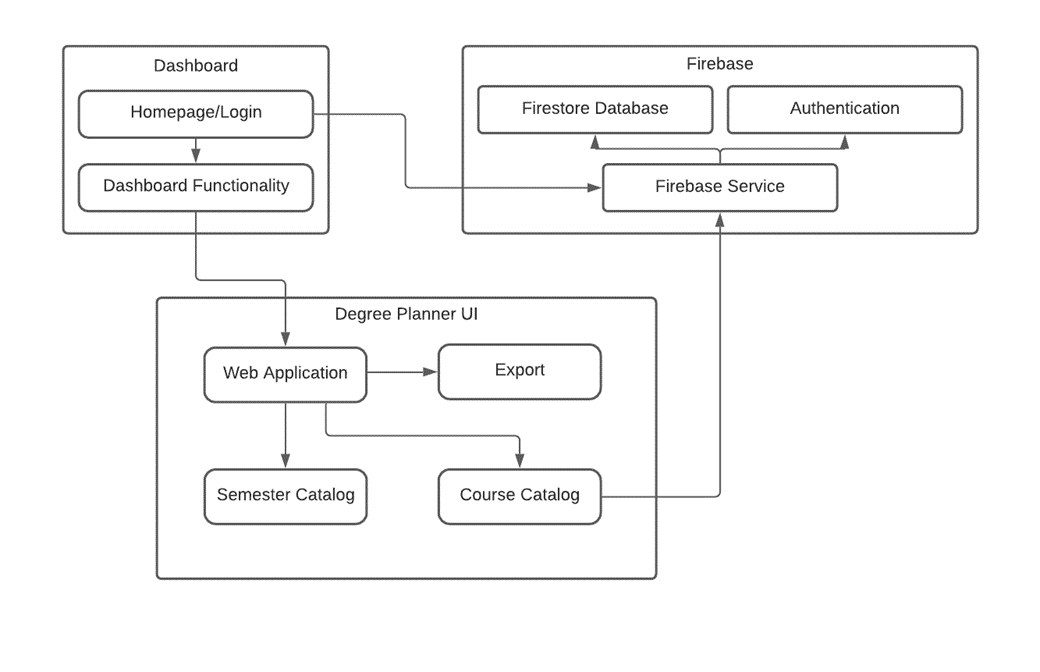
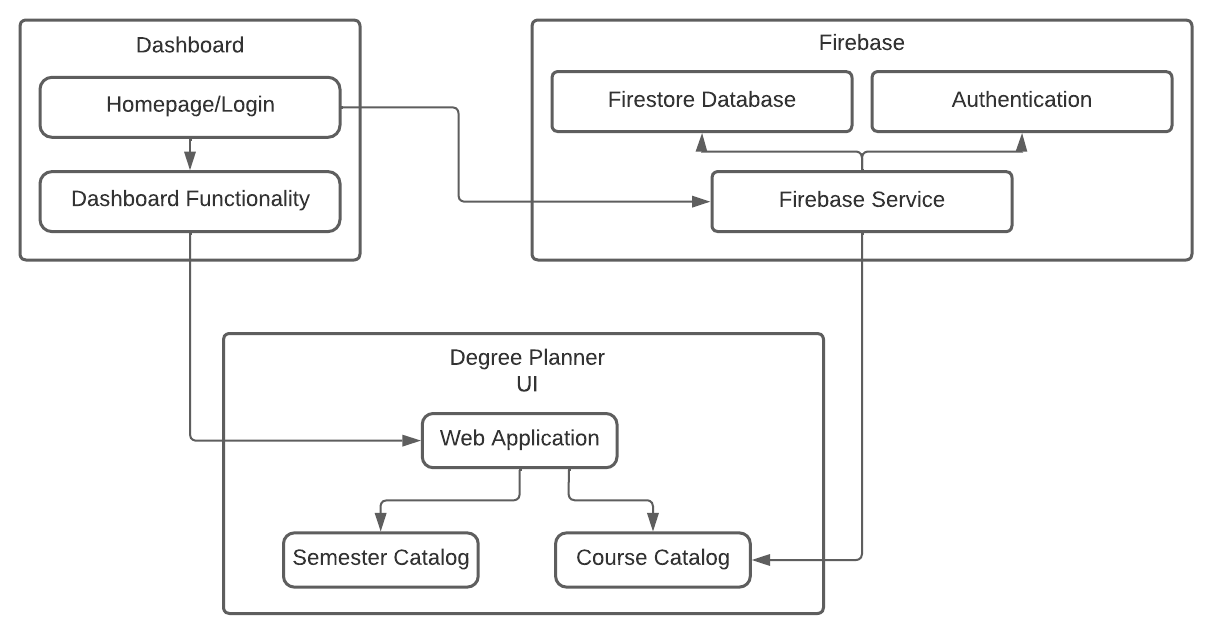
Changes from papeeria

Changed region(s): [[0.0, 0.03, 0.9846, 0.4803], [0.1231, 0.4502, 0.7077, 0.9305], [0.1846, 0.9605, 0.6769, 0.9905]]

diff --git a/DDS/tex/x_layer_subsystems.tex b/DDS/tex/x_layer_subsystems.tex
@@ -1,4 +1,4 @@
-The Degree Planner UI layer consists of Web application, Course catalog, Semester catalog, and Export subsystem. It is responsible for processing/displaying information related to degree planning tasks and interacting with the users. Important to notice, only authenticated users can access this layer.
+The Degree Planner UI layer consists of Web application, Course catalog, and Semester catalog. It is responsible for processing/displaying information related to degree planning tasks and interacting with the users. Important to notice, only authenticated users can access this layer.
 
 \subsection{Layer Hardware}
 The Degree Planner UI layer uses the screen of any devices having web browser(s).
@@ -7,7 +7,7 @@ The Degree Planner UI layer uses the screen of any devices having web browser(s)
 The Degree Planner UI does not require any specific operating system since it is a web-based application running on any web browser.
 
 \subsection{Layer Software Dependencies}
-The Degree Planner UI is a web-based application built with React and Node.js. It is implemented with React libraries, including react-beautiful-dnd and styled-component. React Router takes responsibility for navigating.
+The Degree Planner UI is a web-based application built with ReactJS. It is implemented with React libraries, including react-beautiful-dnd and styled-component. React Router takes responsibility for navigating.
 
 \subsection{Web Application}
 Web application subsystem provides the user interface for the process of planning degree. The two fundamental goals of this layer is to display information and to interact with user. All courses corresponding to the users' major will be displayed in this UI. The users are capable of dragging course items and drop them into any semester columns.
